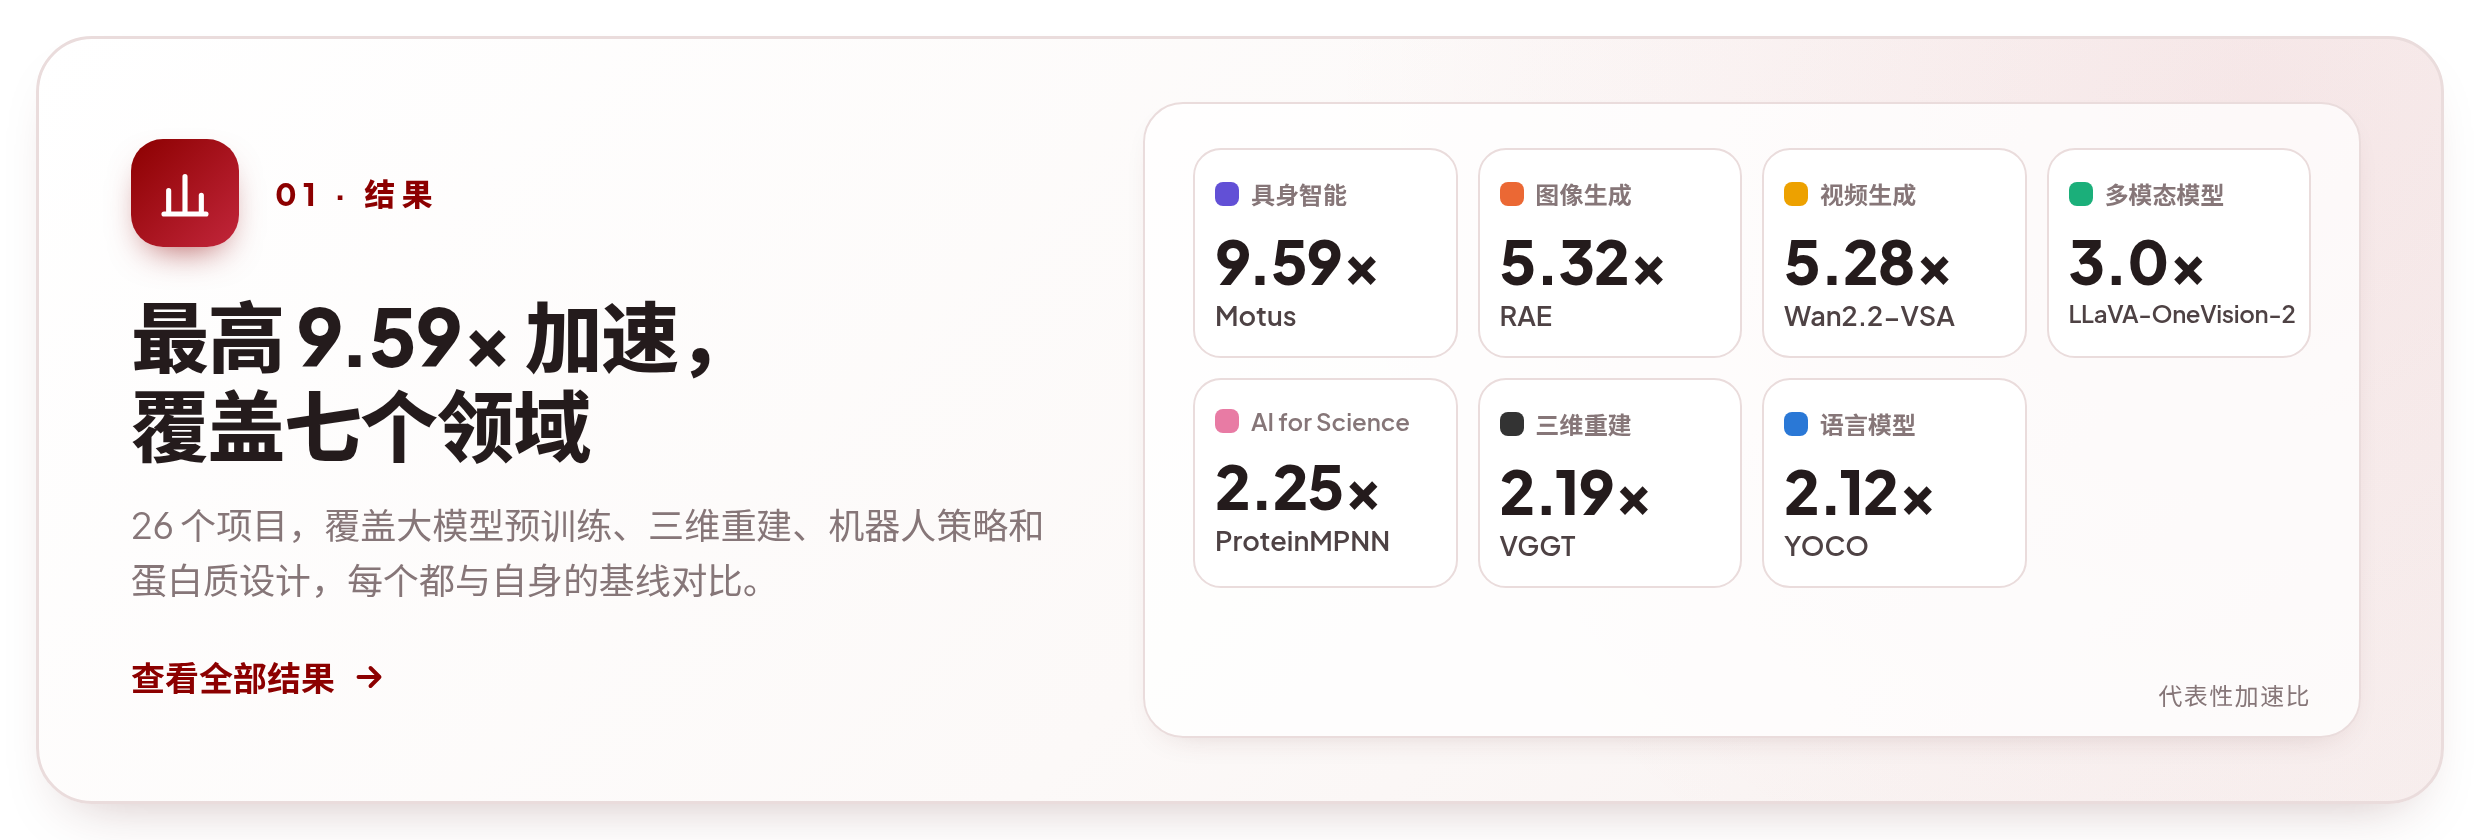
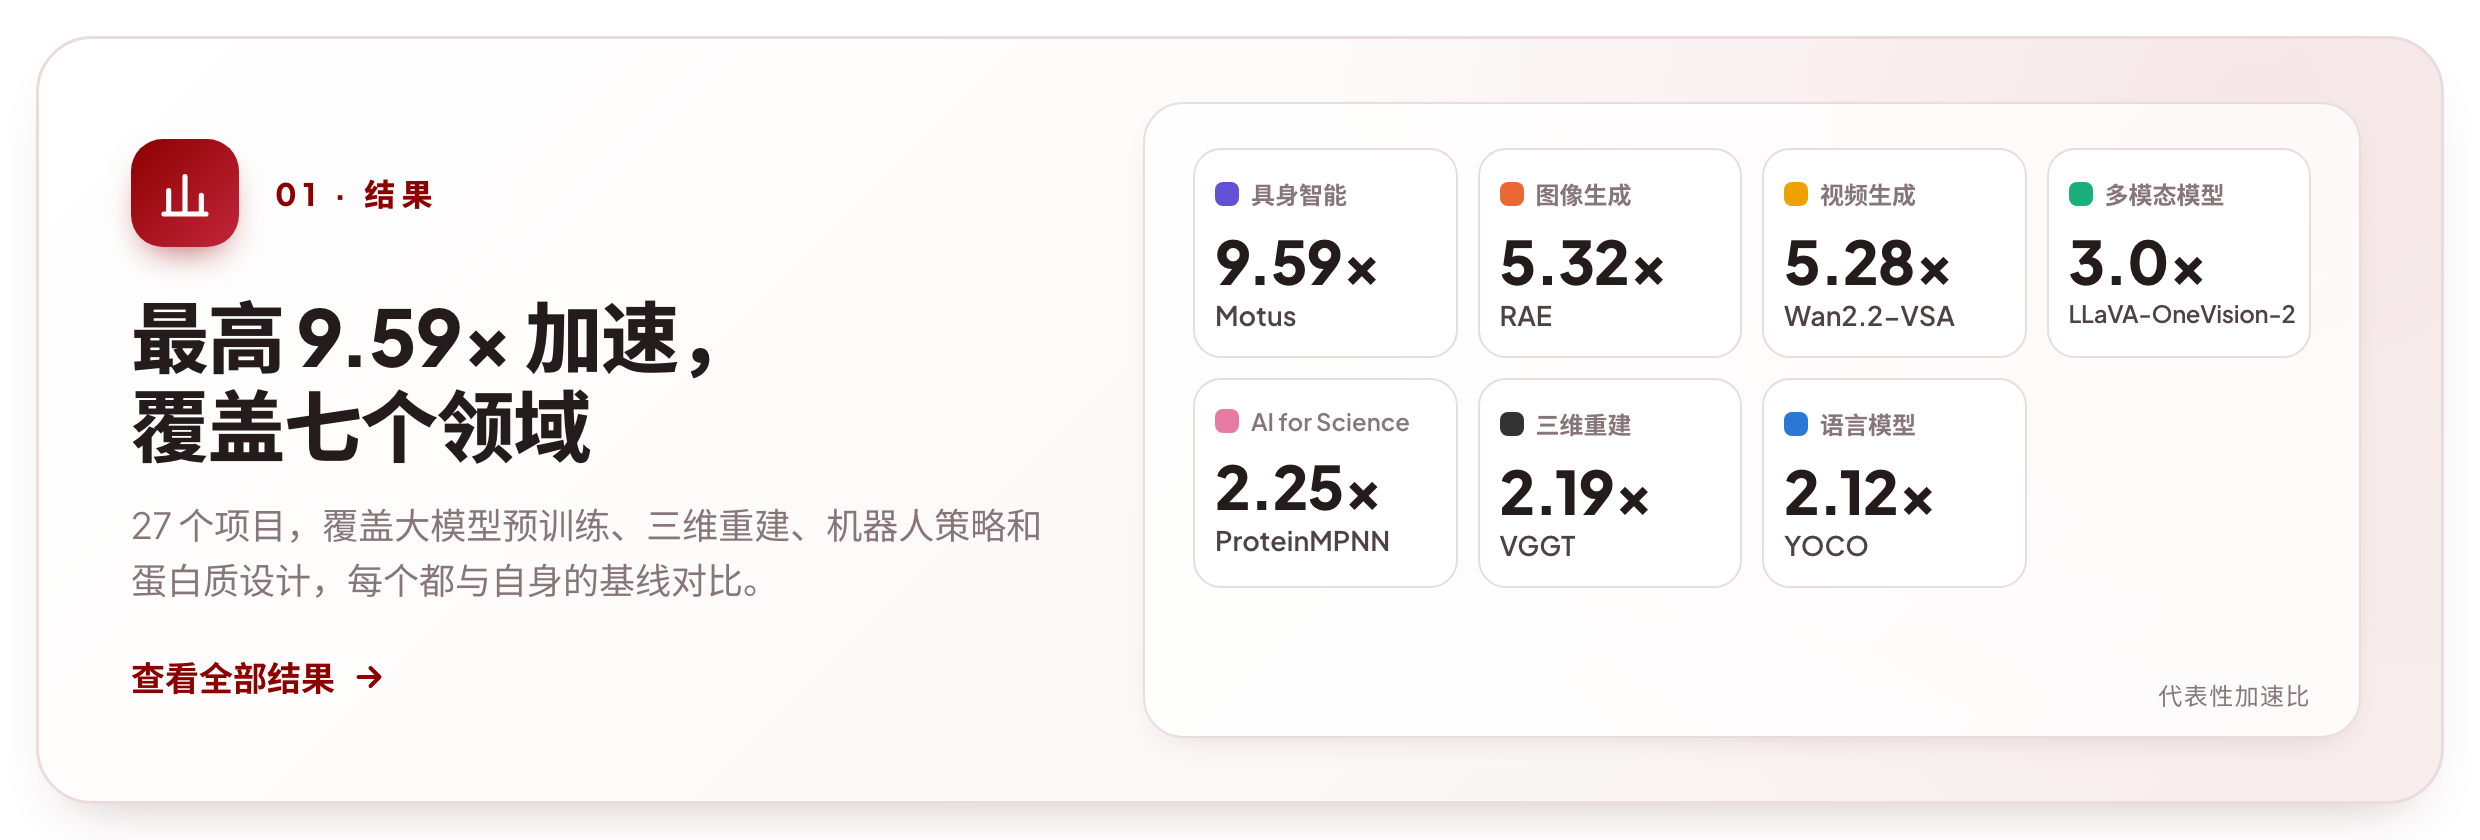
docs: add Faster-State (State on Tahoe-100M) — 1.68×, tier N1 (#25)
* docs: add Faster-State (State on Tahoe-100M) to AI for Science

Case #24, accepted at 1.68×, tier N1.

- README.md / README.zh-CN.md: a row in the AI for Science table; counts 26 -> 27
- docs/results/ai4s.md: Faster-State section (speedup, hardware, measurement
  scope, validation, the hand-disabled compile, the two compiled trees that
  fail the trajectory gate)
- docs/results/README.md: project in the domain row; count
- make_results_overview.py: PROJECTS row at 1.675x, sorted; the figures
  regenerated in both languages
- render.py: card count 26 -> 27. The card PNGs were not re-rendered (no
  headless Chrome in this environment); the Markdown alt text is updated.

* docs: redraw the results cards for 27 projects; one denominator in the State section

The card PNGs still said 26 projects; rerendered with render.py card-results.
The State section's 0.396 -> 0.2215 s/iteration mixed the unmodified tree
measured at the time with the 1.68x headline; it now quotes the reference
timed in the same check (0.371), which is what 1.68x divides by.

---------

diff --git a/docs/assets/readme/render.py b/docs/assets/readme/render.py
@@ -58,7 +58,7 @@ T = {
                     ("bench-blog", "book", "Read the blog post", "light")],
         "cards": [
             ("results", "chart", "01 · RESULTS", "Up to 9.59× faster,<br>across seven domains",
-             "26 projects, from LLM pretraining to 3D reconstruction, robot policies and protein design, each measured against its own baseline.",
+             "27 projects, from LLM pretraining to 3D reconstruction, robot policies and protein design, each measured against its own baseline.",
              "See all results"),
             ("prompt", "terminal", "02 · ONE PROMPT", "Paste one prompt,<br>get a verified speedup",
              "Open Codex or Claude Code on a GPU host. The agent finds the code, asks only what is yours to decide, and does the rest.",
@@ -134,7 +134,7 @@ T = {
                     ("bench-blog", "book", "阅读博客", "light")],
         "cards": [
             ("results", "chart", "01 · 结果", "最高 9.59× 加速，<br>覆盖七个领域",
-             "26 个项目，覆盖大模型预训练、三维重建、机器人策略和蛋白质设计，每个都与自身的基线对比。",
+             "27 个项目，覆盖大模型预训练、三维重建、机器人策略和蛋白质设计，每个都与自身的基线对比。",
              "查看全部结果"),
             ("prompt", "terminal", "02 · 一段提示词", "粘贴一段话，<br>拿到验证过的加速",
              "在 GPU 主机上打开 Codex 或 Claude Code。agent 自己找到代码，只问需要你决定的事，其余全部自己完成。",

diff --git a/docs/figures/make_results_overview.py b/docs/figures/make_results_overview.py
@@ -43,6 +43,7 @@ PROJECTS = [
     ("MiniMax-H3", "vid", 1.857, "1.86×", False, "stat"),
     ("BAGEL", "mllm", 1.82, "1.82×", False, "stat"),
     ("DMD2", "img", 1.72, "1.72×", False, "stat"),
+    ("State", "sci", 1.675, "1.68×", False, "stat"),
     ("LLM2Vec", "llm", 1.6009, "1.60×", False, "stat"),
     ("JiT", "img", 1.56, "1.56×", False, "stat"),
     ("Protenix", "sci", 1.5524, "1.55×", False, "manual"),
@@ -53,7 +54,7 @@ PROJECTS = [
 ]
 
 # Projects contributed by the community; the leaderboard marks them with a people icon.
-COMMUNITY = {"NanoChat", "LLM2Vec", "MiniMax-H3", "Wan2.2-VSA", "SANA-WM", "OpenWAM", "LLaVA-OneVision-2", "ProteinMPNN", "Protenix", "FermiNet", "PIDG (module)", "3DGS", "SuperMimic", "VGGT"}
+COMMUNITY = {"NanoChat", "LLM2Vec", "MiniMax-H3", "Wan2.2-VSA", "SANA-WM", "OpenWAM", "LLaVA-OneVision-2", "ProteinMPNN", "Protenix", "FermiNet", "State", "PIDG (module)", "3DGS", "SuperMimic", "VGGT"}
 
 # (name, domain, baseline, optimized, unit-formatted labels, speedup label, estimate?, en/zh scope, en/zh quality)
 SHOWCASE = [

diff --git a/docs/results/ai4s.md b/docs/results/ai4s.md
@@ -2,7 +2,7 @@
 
 [← All results](README.md) · [ResearchBoost-Agent](../../README.md#results)
 
-3 projects · [ProteinMPNN](#faster-proteinmpnn) · [Protenix](#faster-protenix) · [FermiNet](#faster-ferminet)
+4 projects · [ProteinMPNN](#faster-proteinmpnn) · [Protenix](#faster-protenix) · [FermiNet](#faster-ferminet) · [State](#faster-state)
 
 ## Faster-ProteinMPNN
 
@@ -73,3 +73,24 @@ Timing uses default XLA flags and independent baseline A → candidate → basel
 The measurements cover single-device, real ground-state training with the default Laplacian on the pinned H20 stack. Pretraining and burn-in are shortened for benchmarking; the timed step is unchanged. Full training to convergence and deterministic-mode timing were not run. The portable reproduction launchers package the recorded protocol but have not themselves been rerun end to end. Revalidate the kernel on a different GPU or software stack.
 
 [Code & project README ↗](https://github.com/sen-ye/faster-ferminet) · [Timing & validation evidence ↗](https://github.com/sen-ye/faster-ferminet/blob/master/docs/validation/h20.json) · [Bitwise records ↗](https://github.com/sen-ye/faster-ferminet/blob/master/docs/validation/bitwise_records.json) · [Frozen judge ↗](https://github.com/sen-ye/faster-ferminet/blob/master/task/formulation.json) · [Optimization history ↗](https://github.com/sen-ye/faster-ferminet/blob/master/docs/history.md) · [Reproduction ↗](https://github.com/sen-ye/faster-ferminet/blob/master/docs/reproduction.md)
+
+## Faster-State
+
+Contributed by [@YHDGD5](https://github.com/YHDGD5).
+
+**State transition model (`tahoe_best`) · one training step · Tahoe-100M 13-plate slice**
+
+| Item | Result |
+|---|---|
+| Speedup | **1.68×** (1.675×) |
+| Hardware | 1 × A800 80 GB PCIe, no NVLink, shared host; reference spread 11–20 % run to run |
+| Measurement scope | One training step — batch 8 cell sentences × 512 cells = 4,096 cell rows over 47,942 genes — at 0.371 → 0.2215 s/iteration against a live reference in the same check. A 200-step end-to-end run from seed 42 on the same slice. |
+| Validation | Frozen judge, tier N1. Trajectory gate PASS: worst z 3.00, 0 of 30 steps outside a bound frozen from ten reference repeats per seed; threshold 6.11, calibrated so the reference passes 95 % of its own leave-one-out checks (at 3σ it passes 3 %). Batches from the candidate's own dataloader are bitwise identical to the reference's. End-to-end, `train_loss` is 1.9557 vs 1.9630 and `decoder_loss` 3.1258 vs 3.1211 over steps 150–199 (0.38 % and 0.15 %). |
+
+The step turned out to be bound by the host, not the GPU: a step with no model at all — just the batch and a trivial loss — took as long as the full model. `cell_load` built each cell's 47,942-gene row through a one-row `sparse_csr_tensor(...).to_dense()` at 2.81 ms per cell, and the collate ran two full-tensor scans whose result was discarded. Densifying the CSR row with a NumPy scatter and shipping the non-zeros to the device instead of the 97.6 % zeros took the step to 0.2215 s/iteration, against 0.371 for the reference timed in the same check; the model-side work was marginal by comparison.
+
+The certified tree is round 1's tree with its two `torch.compile` calls disabled by hand after the run, one line each in `utils.py` and `state_transition.py`. The agent's own runs reached 1.885× (cold, round 1) and 2.02–2.08× (warm, round 2), and both trees kept compile; both fail the trajectory gate (worst z 16.05 and 16.35, 27 of 30 steps outside at 6.11). They stay in the repository as `round-1` and `round-2` so the call can be re-checked.
+
+The tier is N1 because the timed path is not bitwise reproducible: flash attention's backward accumulates with atomics, so two runs of the same tree at the same seed differ from the second step on. The gate is therefore statistical, and its bound is frozen before any candidate is recorded. The reference is the gate's positive control, reported next to a deliberately wrong arm (`lr × 1.02` from step 5) that lands at z 1864.96.
+
+[Code & project README ↗](https://github.com/YHDGD5/Faster-State) · [Judge change record ↗](https://github.com/YHDGD5/Faster-State/blob/case/task/judge_changes.md) · [Case report ↗](https://github.com/YHDGD5/Faster-State/blob/case/docs/case-report.md) · [Reproduction ↗](https://github.com/YHDGD5/Faster-State/blob/case/reproduce.sh)

diff --git a/README.md b/README.md
@@ -59,7 +59,7 @@
 
 ## Highlights
 
-<a href="#results"><img src="docs/assets/readme/card-results-en.png" alt="Up to 9.59× faster across seven research domains: 26 projects, each measured against its own baseline." width="100%"></a>
+<a href="#results"><img src="docs/assets/readme/card-results-en.png" alt="Up to 9.59× faster across seven research domains: 27 projects, each measured against its own baseline." width="100%"></a>
 
 <a href="#quick-start"><img src="docs/assets/readme/card-prompt-en.png" alt="Paste one prompt into Codex or Claude Code; the agent finds the code, asks only what is yours to decide, and does the rest." width="100%"></a>
 
@@ -69,7 +69,7 @@
 
 ## Results
 
-<a href="https://ai4ai-for-anything.github.io/#research"><img src="docs/figures/results-overview.svg" alt="All 26 projects ranked by speedup over their own baselines, from 9.59× (Motus) to 1.13× (3DGS), with how each was validated" width="100%"></a>
+<a href="https://ai4ai-for-anything.github.io/#research"><img src="docs/figures/results-overview.svg" alt="All 27 projects ranked by speedup over their own baselines, from 9.59× (Motus) to 1.13× (3DGS), with how each was validated" width="100%"></a>
 
 <img src="docs/figures/results-time.svg" alt="Baseline vs optimized time for six projects, such as Motus fine-tuning from 7.47 s to 0.78 s per iteration and the RoboTwin benchmark from 73.5 h to 16.8 h" width="100%">
 
@@ -146,13 +146,14 @@ Open a domain for the workloads, or the reports for experiment settings and vali
 </details>
 
 <details>
-<summary><strong>AI for Science</strong> · 3 projects — ProteinMPNN, Protenix, FermiNet</summary>
+<summary><strong>AI for Science</strong> · 4 projects — ProteinMPNN, Protenix, FermiNet, State</summary>
 
 | Project | Workload | Speedup |
 |---|---|---:|
 | [Faster-ProteinMPNN](https://github.com/micky-li-hd/Faster-ProteinMPNN) by [@micky-li-hd](https://github.com/micky-li-hd) | ProteinMPNN v_48_020 training · full public dataset | **2.25×** |
 | [Faster-Protenix](https://github.com/micky-li-hd/Faster-Protenix) by [@micky-li-hd](https://github.com/micky-li-hd) | Protenix 2.0.0 training · 128 updates · crop 384 | **1.55×** |
 | [Faster-FermiNet](https://github.com/sen-ye/faster-ferminet) by [@sen-ye](https://github.com/sen-ye) | Fe / Kr / Cd / Xe all-electron training · KFAC, 1024 walkers per GPU | **1.25×** |
+| [Faster-State](https://github.com/YHDGD5/Faster-State) by [@YHDGD5](https://github.com/YHDGD5) | State transition model · one Tahoe-100M training step | **1.68×** |
 
 [Measurement setup & validation →](docs/results/ai4s.md)
 
@@ -253,7 +254,7 @@ The quick start does this for you. By hand: read [AGENTS.md](AGENTS.md) and [doc
 
 | Path | Contents |
 |---|---|
-| [`docs/results/`](docs/results) | Results from 26 projects, grouped by domain, with measurement scope and validation records |
+| [`docs/results/`](docs/results) | Results from 27 projects, grouped by domain, with measurement scope and validation records |
 | [`docs/`](docs) | [Methodology](docs/methodology.md), [the judge](docs/judge.md), [goal mode](docs/goal-mode.md), [running a task](docs/run-a-task.md), [lessons from four tasks](docs/lessons.md) |
 | [`goal/`](goal) | Running one Codex or Claude Code `/goal` session on claw-orchestrator: the task scaffold, the sandbox, model access for both engines, run / status / steer / resume scripts and the final check, the watchdog, the brief for the formulating and supervising agent |
 | [`numerics/`](numerics) | The equivalence component every task judge copies and freezes: recording, bitwise and tiered comparison, paired-seed trajectories, the task adapter base class, a self-test |

diff --git a/README.zh-CN.md b/README.zh-CN.md
@@ -59,7 +59,7 @@
 
 ## 亮点
 
-<a href="#已有结果"><img src="docs/assets/readme/card-results-zh.png" alt="最高 9.59× 加速，覆盖七个研究领域：26 个项目，每个都与自身的基线对比。" width="100%"></a>
+<a href="#已有结果"><img src="docs/assets/readme/card-results-zh.png" alt="最高 9.59× 加速，覆盖七个研究领域：27 个项目，每个都与自身的基线对比。" width="100%"></a>
 
 <a href="#快速开始"><img src="docs/assets/readme/card-prompt-zh.png" alt="在 Codex 或 Claude Code 里粘贴一段话；agent 自己找到代码，只问需要你决定的事，其余全部自己完成。" width="100%"></a>
 
@@ -69,7 +69,7 @@
 
 ## 已有结果
 
-<a href="https://ai4ai-for-anything.github.io/#research"><img src="docs/figures/results-overview.zh-CN.svg" alt="26 个项目按相对自身基线的加速比排名，从 9.59×（Motus）到 1.13×（3DGS），附验证方式" width="100%"></a>
+<a href="https://ai4ai-for-anything.github.io/#research"><img src="docs/figures/results-overview.zh-CN.svg" alt="27 个项目按相对自身基线的加速比排名，从 9.59×（Motus）到 1.13×（3DGS），附验证方式" width="100%"></a>
 
 <img src="docs/figures/results-time.zh-CN.svg" alt="6 个项目的基线与优化后耗时对比，例如 Motus 微调每次迭代从 7.47 s 降到 0.78 s，RoboTwin 完整评测从 73.5 h 降到 16.8 h" width="100%">
 
@@ -146,13 +146,14 @@
 </details>
 
 <details>
-<summary><strong>AI for Science</strong> · 3 个项目 — ProteinMPNN, Protenix, FermiNet</summary>
+<summary><strong>AI for Science</strong> · 4 个项目 — ProteinMPNN, Protenix, FermiNet, State</summary>
 
 | 项目 | 工作负载 | 加速比 |
 |---|---|---:|
 | [Faster-ProteinMPNN](https://github.com/micky-li-hd/Faster-ProteinMPNN)（[@micky-li-hd](https://github.com/micky-li-hd) 贡献） | ProteinMPNN v_48_020 训练（完整公开数据集） | **2.25×** |
 | [Faster-Protenix](https://github.com/micky-li-hd/Faster-Protenix)（[@micky-li-hd](https://github.com/micky-li-hd) 贡献） | Protenix 2.0.0 训练 · 128 次更新 · crop 384 | **1.55×** |
 | [Faster-FermiNet](https://github.com/sen-ye/faster-ferminet)（[@sen-ye](https://github.com/sen-ye) 贡献） | Fe / Kr / Cd / Xe 全电子训练 · KFAC，每卡 1024 walkers | **1.25×** |
+| [Faster-State](https://github.com/YHDGD5/Faster-State)（[@YHDGD5](https://github.com/YHDGD5) 贡献） | State 状态转移模型 · Tahoe-100M 单步训练 | **1.68×** |
 
 [实验设置与验证记录（英文） →](docs/results/ai4s.md)
 
@@ -253,7 +254,7 @@ Codex 用 `codex --enable default_mode_request_user_input` 启动时会弹出提
 
 | 路径 | 内容 |
 |---|---|
-| [`docs/results/`](docs/results) | 26 个项目的分类报告、测量范围与验证记录（英文） |
+| [`docs/results/`](docs/results) | 27 个项目的分类报告、测量范围与验证记录（英文） |
 | [`docs/`](docs) | 英文文档：[方法](docs/methodology.md)、[评测](docs/judge.md)、[goal 模式](docs/goal-mode.md)、[任务运行指南](docs/run-a-task.md)、[四个任务的经验](docs/lessons.md) |
 | [`goal/`](goal) | 在 claw-orchestrator 上运行 Codex 或 Claude Code `/goal` 会话的工具：建任务目录的脚本、沙箱、两种引擎的模型访问配置、启动 / 查看状态 / 发送提醒 / 恢复运行的脚本和最终评测、监控脚本，以及任务准备和监督 agent 的说明 |
 | [`numerics/`](numerics) | 各任务评测复制并固定版本的数值等价性检查组件：数据记录、逐位和分级比对、配对随机种子的训练轨迹比对、任务适配器基类及自测 |

diff --git a/docs/results/README.md b/docs/results/README.md
@@ -2,7 +2,7 @@
 
 [← ResearchBoost-Agent](../../README.md#results)
 
-**26 projects · 7 research domains**
+**27 projects · 7 research domains**
 
 Each report includes the workload, hardware, timing and validation results, with links to the project’s code and experiments.
 
@@ -13,7 +13,7 @@ Each report includes the workload, hardware, timing and validation results, with
 | Image Generation | [G-STAR](https://github.com/DAGroup-PKU/G-STAR), RAE, DMD2, JiT | [Open report](image-generation.md) |
 | Video Generation | [Wan2.2-VSA](https://github.com/JoeyXuquant11/Faster-Wan22-VSA-MUSA) by [@JoeyXuquant11](https://github.com/JoeyXuquant11), [SANA-WM](https://github.com/JoeyXuquant11/Faster-SANA-WM-MUSA) by [@JoeyXuquant11](https://github.com/JoeyXuquant11), Self-Forcing, [MiniMax-H3](https://github.com/2018cx/Faster-MiniMax-H3) by [@2018cx](https://github.com/2018cx) | [Open report](video-generation.md) |
 | Embodied AI | RoboTwin, Motus, FastWAM, [OpenWAM](https://github.com/OpenWAM-Official/OpenWAM) by [@GONGSHUKAI](https://github.com/GONGSHUKAI), [SuperMimic](https://github.com/hwbhwbhwb/Faster-SuperMimic) by [@hwbhwbhwb](https://github.com/hwbhwbhwb) | [Open report](embodied-ai.md) |
-| AI for Science | [ProteinMPNN](https://github.com/micky-li-hd/Faster-ProteinMPNN) by [@micky-li-hd](https://github.com/micky-li-hd), [Protenix](https://github.com/micky-li-hd/Faster-Protenix) by [@micky-li-hd](https://github.com/micky-li-hd), [FermiNet](https://github.com/sen-ye/faster-ferminet) by [@sen-ye](https://github.com/sen-ye) | [Open report](ai4s.md) |
+| AI for Science | [ProteinMPNN](https://github.com/micky-li-hd/Faster-ProteinMPNN) by [@micky-li-hd](https://github.com/micky-li-hd), [Protenix](https://github.com/micky-li-hd/Faster-Protenix) by [@micky-li-hd](https://github.com/micky-li-hd), [FermiNet](https://github.com/sen-ye/faster-ferminet) by [@sen-ye](https://github.com/sen-ye), [State](https://github.com/YHDGD5/Faster-State) by [@YHDGD5](https://github.com/YHDGD5) | [Open report](ai4s.md) |
 | 3D Reconstruction | [Original 3DGS](https://github.com/HaoqinHong/Physics-Informed-Deformable-Gaussian-Splatting-ResearchBoost) by [@HaoqinHong](https://github.com/HaoqinHong), [PIDG](https://github.com/HaoqinHong/Physics-Informed-Deformable-Gaussian-Splatting-ResearchBoost) by [@HaoqinHong](https://github.com/HaoqinHong), [VGGT](https://github.com/SuperFCR/Faster-VGGT) by [@SuperFCR](https://github.com/SuperFCR) | [Open report](3d-reconstruction.md) |
 
 Speedups compare each workload with its own baseline. **est.** marks an extrapolated result.
